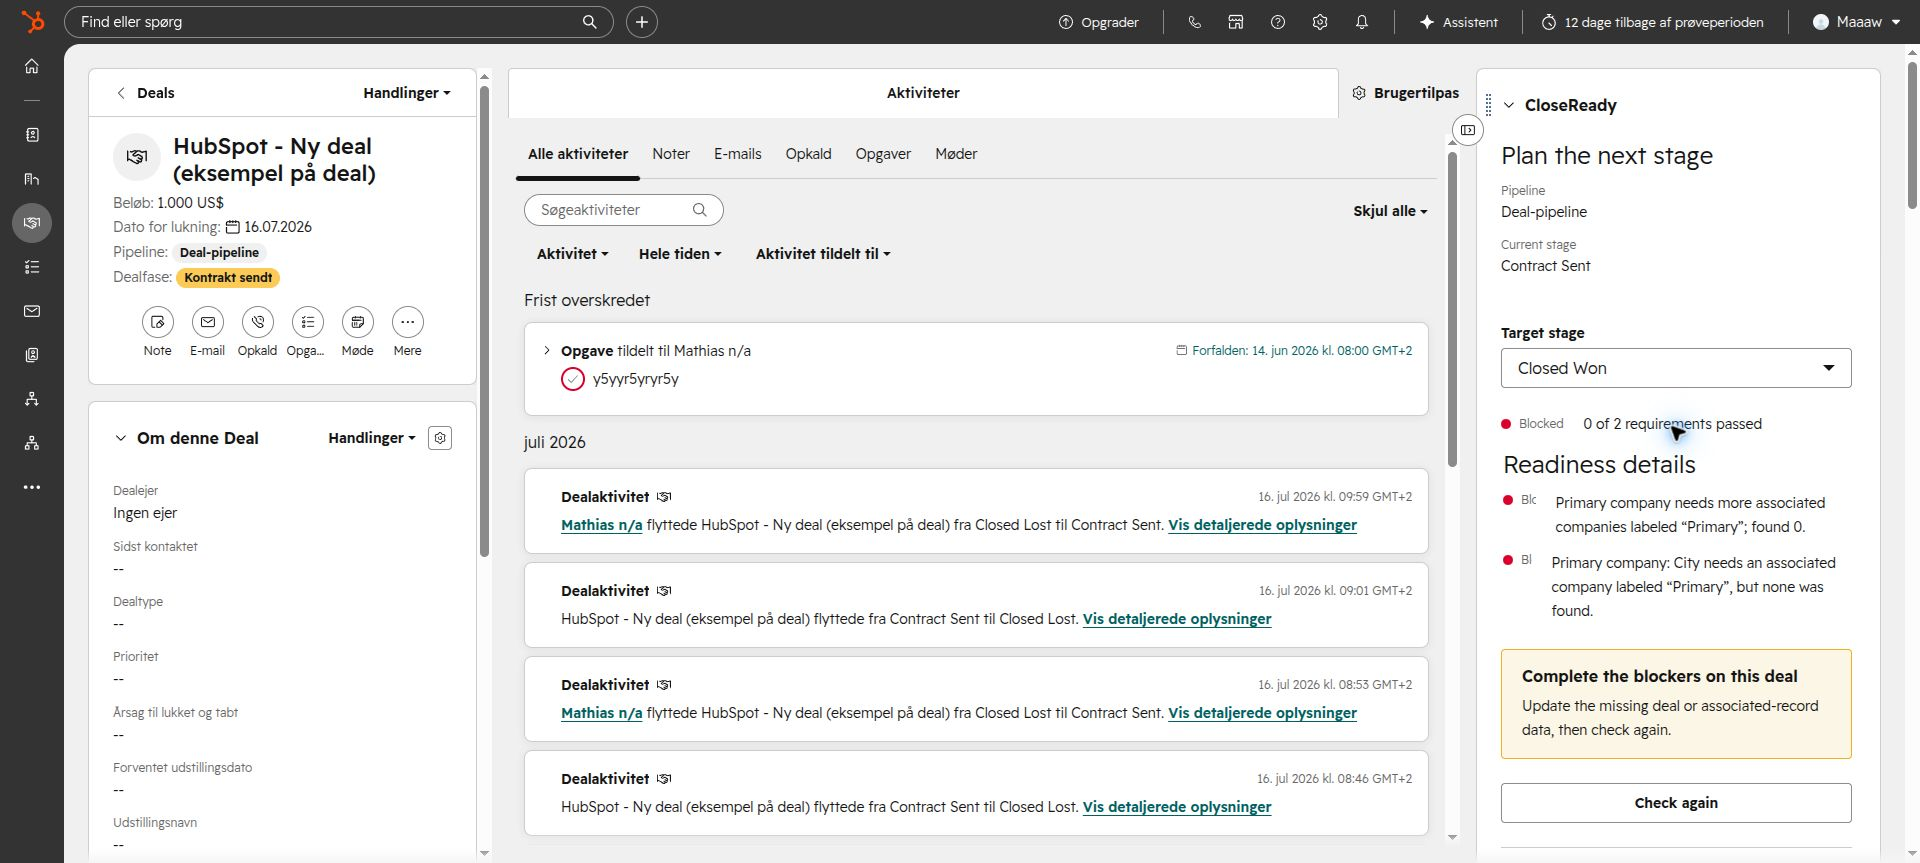
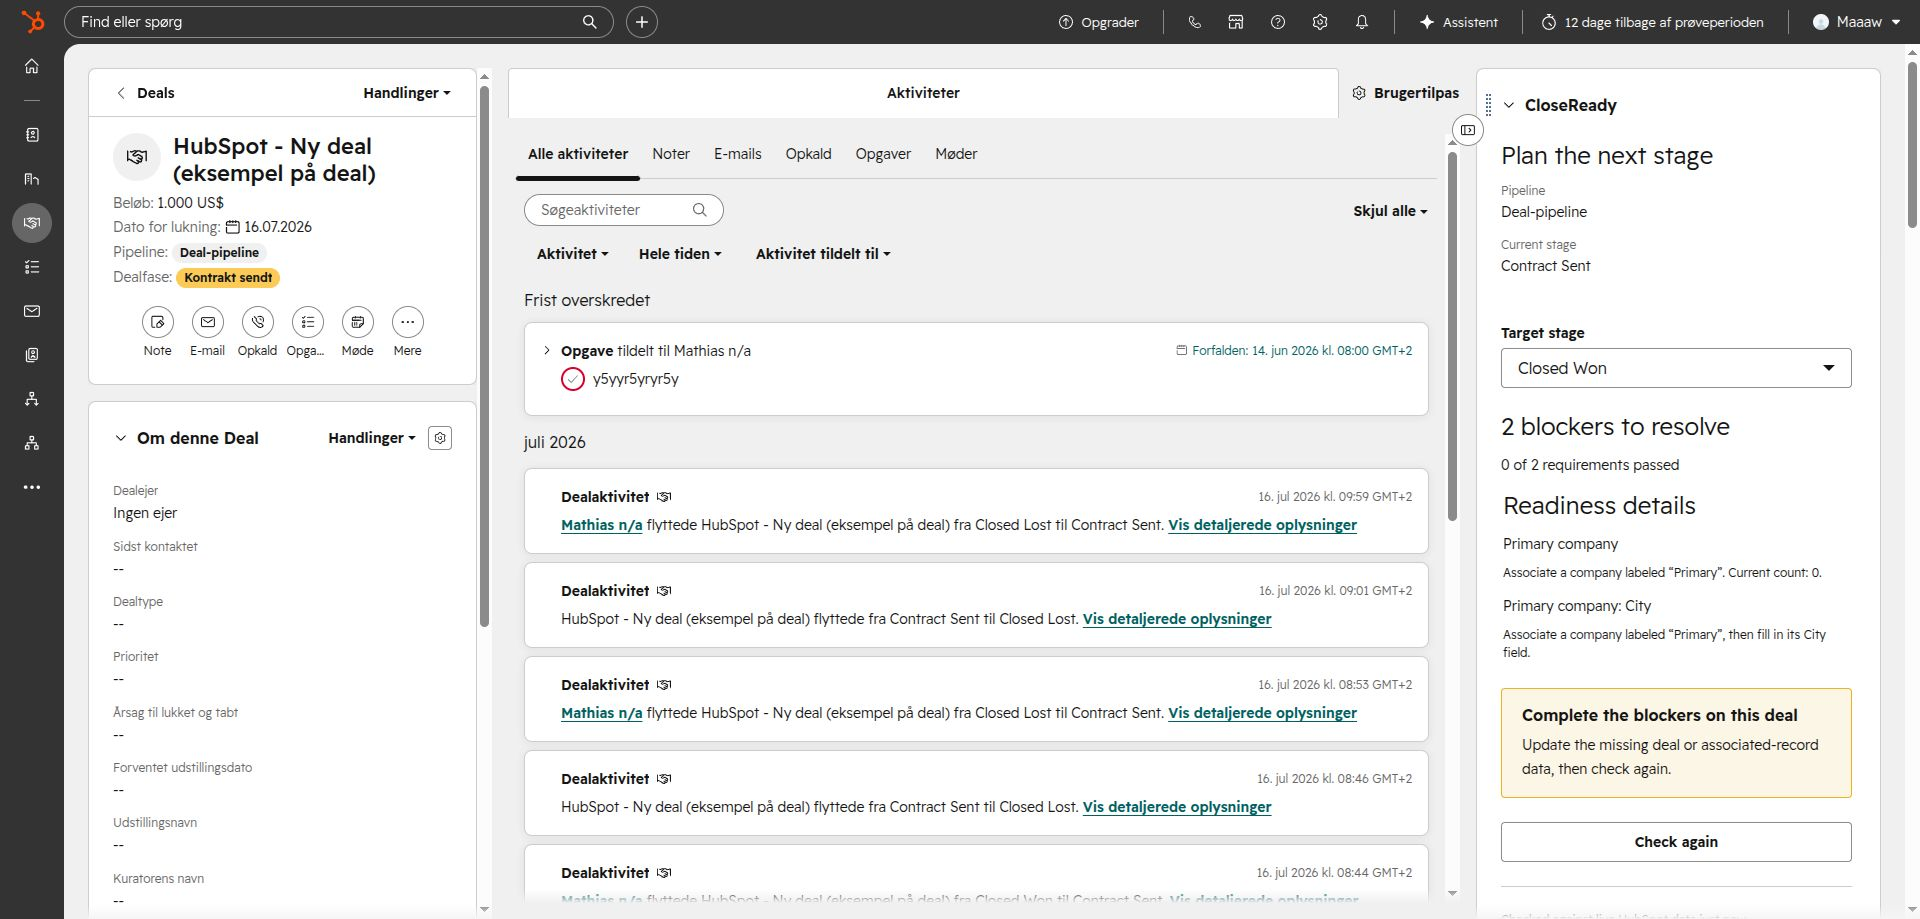
Refresh CloseReady docs and screenshots

diff --git a/projects/closeready/services/api/README.md b/projects/closeready/services/api/README.md
@@ -1,8 +1,9 @@
 # CloseReady API
 
 This package contains the HubSpot gateway and a web-standard `Request` to
-`Response` handler. The same handler can be wrapped by Node, AWS Lambda, Azure
-Functions, or HubSpot serverless adapters.
+`Response` handler. A Node adapter is included. AWS Lambda, Azure Functions, or
+other HTTP runtimes can use thin adapters around the same handler; those
+adapters are not currently shipped in this project.
 
 Implemented capabilities:
 
@@ -19,16 +20,50 @@ OAuth, AES-256-GCM encrypted Upstash token persistence, HubSpot signature v3
 verification, and a local Node adapter are included. The core HTTP handler still
 injects these boundaries so cloud-specific adapters remain small.
 
-For local API work:
+## Local development
 
 ```bash
 pnpm --dir projects/closeready/services/api dev:local
 curl http://localhost:8788/health
 ```
 
-The local command uses in-memory token and rule stores and accepts unsigned requests
-only on `localhost`/`127.0.0.1`. A durable encrypted store is mandatory outside
-development.
+The local command uses in-memory token and rule stores and accepts unsigned
+requests only on `localhost`/`127.0.0.1`. A durable encrypted store is mandatory
+outside development. For a real OAuth flow, copy `.env.example`, configure the
+credentials and public HTTPS origin, run `pnpm --filter
+@hubspotlab/closeready-api dev`, then open `{PUBLIC_URL}/oauth/install`.
+
+## Production configuration
+
+| Variable                   | Purpose                                    |
+| -------------------------- | ------------------------------------------ |
+| `HUBSPOT_CLIENT_ID`        | OAuth app client ID                        |
+| `HUBSPOT_CLIENT_SECRET`    | OAuth and HubSpot request-signature secret |
+| `HUBSPOT_SCOPES`           | Space- or comma-separated scope override   |
+| `PUBLIC_URL`               | Public API origin without a trailing slash |
+| `TOKEN_ENCRYPTION_KEY`     | Encrypts durable OAuth and rule records    |
+| `UPSTASH_REDIS_REST_URL`   | Durable REST Redis endpoint                |
+| `UPSTASH_REDIS_REST_TOKEN` | REST Redis bearer token                    |
+| `RULE_STORAGE`             | `auto`, `hubspot`, or `external`           |
+
+Production startup requires encrypted durable token storage.
+
+## Routes
+
+| Method   | Route                                  | Purpose                                       |
+| -------- | -------------------------------------- | --------------------------------------------- |
+| `GET`    | `/health`                              | Process health                                |
+| `GET`    | `/oauth/install`                       | Begin OAuth installation                      |
+| `GET`    | `/oauth/callback`                      | Exchange and store OAuth tokens               |
+| `POST`   | `/api/provision?portalId=…`            | Select or initialize rule storage             |
+| `GET`    | `/api/catalog?portalId=…`              | Pipelines, properties, and association labels |
+| `GET`    | `/api/rules?portalId=…`                | List rules, optionally by pipeline            |
+| `POST`   | `/api/rules?portalId=…`                | Create a rule                                 |
+| `PATCH`  | `/api/rules/:id?portalId=…`            | Update a rule                                 |
+| `DELETE` | `/api/rules/:id?portalId=…`            | Delete a rule                                 |
+| `GET`    | `/api/deals/:id/context?portalId=…`    | Current pipeline and stage                    |
+| `POST`   | `/api/deals/:id/evaluate?portalId=…`   | Evaluate a target stage                       |
+| `POST`   | `/api/deals/:id/transition?portalId=…` | Re-evaluate and perform a guarded move        |
 
 With `RULE_STORAGE=auto` (the default), CloseReady uses the same idempotent
 provisioning model as TidsHub. A setup check lists the portal's custom schemas,

diff --git a/projects/closeready/docs/architecture.md b/projects/closeready/docs/architecture.md
@@ -2,16 +2,15 @@
 
 ```mermaid
 flowchart LR
-  Card[Deal record card] --> API[Portable signed API]
-  Page[CloseReady app page] --> API
+  Card[Deal record card] -->|HubSpot signature v3| API[Portable OAuth API]
+  Page[App page and settings] -->|HubSpot signature v3| API
   API --> Pipelines[HubSpot pipelines and properties]
   API --> Deals[Deals and associations]
+  API --> Engine[Shared rule engine]
   API --> Choice{Custom objects available?}
   Choice -->|Yes| Rules[(One CloseReady rule object)]
   Choice -->|No| Portable[(Encrypted portable rule store)]
-  Card --> Engine[Shared rule engine]
-  Page --> Engine
-  API --> Engine
+  API --> Tokens[(Encrypted OAuth token store)]
 ```
 
 ## Capability-based persistence
@@ -29,21 +28,22 @@ written to CRM.
 
 ## API contract
 
-| Method   | Route                        | Purpose                                       |
-| -------- | ---------------------------- | --------------------------------------------- |
-| `POST`   | `/api/provision`             | Select and report the portal's storage mode   |
-| `GET`    | `/api/catalog`               | Pipelines, CRM properties, association labels |
-| `GET`    | `/api/rules?pipelineId=…`    | List pipeline rules                           |
-| `POST`   | `/api/rules`                 | Create a validated rule                       |
-| `PATCH`  | `/api/rules/:id`             | Update a validated rule                       |
-| `DELETE` | `/api/rules/:id`             | Archive a rule                                |
-| `POST`   | `/api/deals/:id/evaluate`    | Evaluate against a target stage               |
-| `POST`   | `/api/deals/:id/transition`  | Guard and perform an allowed transition       |
-| `GET`    | `/api/overview?pipelineId=…` | Pipeline readiness dashboard                  |
+| Method   | Route                       | Purpose                                       |
+| -------- | --------------------------- | --------------------------------------------- |
+| `POST`   | `/api/provision`            | Select and report the portal's storage mode   |
+| `GET`    | `/api/catalog`              | Pipelines, CRM properties, association labels |
+| `GET`    | `/api/rules?pipelineId=…`   | List pipeline rules                           |
+| `POST`   | `/api/rules`                | Create a validated rule                       |
+| `PATCH`  | `/api/rules/:id`            | Update a validated rule                       |
+| `DELETE` | `/api/rules/:id`            | Archive a rule                                |
+| `POST`   | `/api/deals/:id/evaluate`   | Evaluate against a target stage               |
+| `POST`   | `/api/deals/:id/transition` | Guard and perform an allowed transition       |
+| `GET`    | `/api/deals/:id/context`    | Read the deal's current pipeline and stage    |
 
-Every `/api/*` request uses HubSpot signature v3. The service rechecks rules
-and current deal facts during a guarded transition; it never trusts readiness
-results supplied by the UI.
+Every production `/api/*` request uses HubSpot signature v3. Explicit localhost
+development may accept unsigned requests. The service rechecks rules and current
+deal facts during a guarded transition; it never trusts readiness results
+supplied by the UI.
 
 ## Snapshot collection
 

diff --git a/projects/closeready/README.md b/projects/closeready/README.md
@@ -6,9 +6,12 @@ stage, then explains exactly what prevents a deal from progressing or closing.
 
 ## Product surfaces
 
-- **Deal card:** readiness score, blockers, warnings, and direct remediation.
-- **App page:** pipeline health, blocked deals, and readiness by owner/stage.
-- **Configuration:** per-pipeline and per-stage required data points.
+- **Deal card:** target-stage selection, live checks, concise blockers and
+  warnings, and a guarded move when requirements pass.
+- **App page:** installation health, active-rule totals, and target-stage
+  coverage for each pipeline.
+- **Configuration:** create, edit, pause, enable, and safely delete transition
+  requirements.
 - **Guarded transition:** validates every CloseReady blocker before moving a
   deal to its target stage.
 
@@ -21,11 +24,11 @@ move into a target stage. See the [product plan](docs/product-plan.md) and
 
 ## Current foundation
 
-CloseReady now contains the deterministic engine, a portable HubSpot API client,
-the web-standard HTTP contract, and the first native HubSpot configuration page.
-The runtime adapters and OAuth token store are intentionally separate from the
-business logic so the same service can run on Node, Lambda, Azure Functions, or
-HubSpot serverless when available.
+CloseReady contains a deterministic rule engine, portable HubSpot API client,
+web-standard HTTP contract, Node runtime adapter, encrypted token and rule
+stores, and native HubSpot UI extensions. The HTTP handler is intentionally
+hosting-neutral; additional cloud adapters can wrap it without changing the
+rule engine.
 
 The HubSpot experience is split into three focused surfaces:
 
@@ -60,6 +63,20 @@ the card.
 
 See the [visual product tour](docs/product-tour.md) for the complete workflow
 and supported rule types.
+
+## Prerequisites
+
+- Node.js 24 or newer and pnpm 11;
+- a HubSpot developer project with the checked-in app components uploaded;
+- an HTTPS API origin reachable by HubSpot;
+- OAuth client credentials and a long random token-encryption key;
+- Upstash REST Redis for durable production token storage and portable rule
+  storage.
+
+Copy `services/api/.env.example`, configure the values, run the API with
+`pnpm --filter @hubspotlab/closeready-api dev`, and open `/oauth/install` on the
+public API origin to connect a portal. Local health-check development is
+available with `pnpm --filter @hubspotlab/closeready-api dev:local`.
 
 ## Storage that fits the portal
 
@@ -107,11 +124,8 @@ view > Add card > Card library > CloseReady**. Save the layout once; every deal
 then gets the guarded transition flow.
 
 ```bash
-pnpm --filter @hubspotlab/closeready-core test
-pnpm --filter @hubspotlab/closeready-core typecheck
-pnpm --filter @hubspotlab/closeready-api test
-pnpm --filter @hubspotlab/closeready-api typecheck
-pnpm --dir projects/closeready/apps/hubspot/src/app/pages typecheck
+pnpm --dir projects/closeready test
+pnpm --dir projects/closeready typecheck
 ```
 
 The placeholder `closeready.example.com` origin in the HubSpot app metadata and

diff --git a/README.md b/README.md
@@ -1,7 +1,8 @@
 # HubSpotLab
 
-HubSpotLab is an MIT-licensed monorepo for reusable HubSpot apps, developer
-tools, shared libraries, automation, agent skills, examples, and documentation.
+HubSpotLab is an MIT-licensed monorepo for production-oriented HubSpot apps,
+developer tools, shared libraries, automation, agent skills, examples, and
+documentation.
 
 The repository is intentionally language-agnostic at the root. Each project
 owns its runtime, dependencies, tests, and release process while following the
@@ -33,23 +34,31 @@ pnpm test
 Use Node.js 24 or newer. Choose the narrowest matching top-level area for new
 work and keep each project independently understandable and deployable.
 
-See [CONTRIBUTING.md](CONTRIBUTING.md) for repository conventions and
-[docs/architecture.md](docs/architecture.md) for the design principles behind
-the monorepo. The [TidsHub project](projects/tidshub/README.md) documents the
-first complete product and its trust boundaries.
-
 ## Current projects
 
-| Project               | Purpose                                                     |
-| --------------------- | ----------------------------------------------------------- |
-| `projects/tidshub`    | Time registration with a HubSpot app and portable OAuth API |
-| `projects/closeready` | Pipeline-specific deal readiness and close governance       |
+| Project    | Purpose                                                        | Start here                                     |
+| ---------- | -------------------------------------------------------------- | ---------------------------------------------- |
+| TidsHub    | Time registration, CRM associations, and weekly approvals      | [Project guide](projects/tidshub/README.md)    |
+| CloseReady | Configurable deal-transition readiness and guarded stage moves | [Project guide](projects/closeready/README.md) |
+
+Validate one product without running unrelated work:
+
+```bash
+pnpm --dir projects/tidshub validate
+pnpm --dir projects/closeready test
+pnpm --dir projects/closeready typecheck
+```
+
+See [CONTRIBUTING.md](CONTRIBUTING.md) for repository conventions,
+[docs/architecture.md](docs/architecture.md) for monorepo design principles,
+and [projects/README.md](projects/README.md) for the product-owned layout.
 
 ## Status
 
-TidsHub is the first production-oriented reference application. It uses native
-HubSpot UI extensions, one custom object, signed API requests, portable OAuth,
-and an encrypted durable token store.
+HubSpotLab is pre-1.0. TidsHub and CloseReady are functional reference products,
+but deployments still require operator-owned HubSpot credentials, a public API
+origin, and production-grade encrypted token persistence. Each project README
+documents its own prerequisites, trust boundary, and validation commands.
 
 See [SECURITY.md](SECURITY.md) for private vulnerability reporting and
 [LICENSE](LICENSE) for reuse terms.

diff --git a/projects/closeready/docs/product-plan.md b/projects/closeready/docs/product-plan.md
@@ -29,13 +29,19 @@ set to another pipeline, then edit the copy independently.
 
 ### Deal record card
 
-- current readiness score and target stage;
-- blockers before warnings;
-- direct links or actions to complete missing data;
-- guarded stage transition after all blockers pass;
-- clear indication when a property is also hard-blocked by HubSpot.
+- current and target stages;
+- concise blockers before warnings;
+- actionable instructions for missing data;
+- guarded stage transition after all blockers pass.
 
-### App page
+### App page: current
+
+- portal, storage, and active-rule setup health;
+- blocker, warning, and governed-stage totals;
+- target-stage coverage by pipeline;
+- requirement-type mix.
+
+### App page: future analytics
 
 - blocked deals by pipeline, stage, owner, and closing period;
 - readiness distribution and recent regressions;
@@ -45,19 +51,24 @@ set to another pipeline, then edit the copy independently.
 ### Settings
 
 - installation health and one-object provisioning;
-- default Closed won starter pack;
-- links to HubSpot pipeline settings for native required fields.
+- per-rule status for requirements an administrator has mirrored in HubSpot;
+- explanatory guidance for CloseReady versus native HubSpot enforcement.
+
+Future settings work includes a native-rule setup checklist and direct pipeline
+settings links.
 
 ## Delivery sequence
 
 1. Deterministic rule engine and validation. Complete.
-2. One-object rule persistence and portable API contract. Core complete; OAuth
-   runtime adapters remain.
-3. Pipeline, stage, property, and association-label discovery. Complete.
-4. Configuration app page. Initial implementation complete.
-5. Deal card and live readiness evaluation. Collector complete; card remains.
-6. Pipeline dashboard and guarded transition.
-7. Native-enforcement setup assistant and documentation.
+2. One-object rule persistence and encrypted portable fallback. Complete.
+3. OAuth, signed requests, token refresh, and Node runtime. Complete.
+4. Pipeline, property, and association-label discovery. Complete.
+5. Rule configuration with edit, pause, enable, duplicate protection, and
+   confirmed deletion. Complete.
+6. Deal card, live readiness evaluation, and guarded transition. Complete.
+7. Pipeline coverage overview and setup health. Complete.
+8. Native-enforcement setup guidance. Documented; deep-link workflow remains.
+9. Deal-level analytics, owner rollups, and regression history. Planned.
 
 ## Deliberate constraints
 

diff --git a/projects/closeready/docs/enforcement.md b/projects/closeready/docs/enforcement.md
@@ -10,8 +10,8 @@ entering Closed won until the required fields are populated.
 
 CloseReady can mark compatible wildcard-source property rules as
 `nativeEnforcement`. Native required fields apply to every move into a target
-stage, so an exact source-stage rule cannot be represented natively. The setup
-assistant links the administrator to:
+stage, so an exact source-stage rule cannot be represented natively. Configure
+the matching rule in HubSpot's pipeline settings for the selected pipeline:
 
 ```text
 /pipelines-settings/{portalId}/object/0-3/{pipelineId}
@@ -28,7 +28,7 @@ CloseReady mutated pipeline settings.
 
 Conditions involving associations, tasks, quotes, line items, or compound logic
 are evaluated by CloseReady. They block CloseReady's guarded transition and are
-shown prominently in the deal card and pipeline dashboard. They cannot prevent
+shown prominently in the deal card. They cannot prevent
 a sufficiently privileged user from changing the native deal stage elsewhere
 in HubSpot.
 

diff --git a/projects/README.md b/projects/README.md
@@ -16,3 +16,10 @@ projects/example/
 
 Code shared by multiple projects belongs in `packages/`. Repository-wide
 conventions and architectural decisions belong in `docs/`.
+
+## Active projects
+
+| Project    | Product surface                                              | Documentation                 |
+| ---------- | ------------------------------------------------------------ | ----------------------------- |
+| CloseReady | Deal-readiness app page, rule settings, and deal card        | [Guide](closeready/README.md) |
+| TidsHub    | Time-registration app page, CRM cards, and approval workflow | [Guide](tidshub/README.md)    |

diff --git a/projects/closeready/docs/product-tour.md b/projects/closeready/docs/product-tour.md
@@ -51,7 +51,9 @@ The result is intentionally actionable:
 
 - passed requirements are confirmed;
 - warnings remain visible but do not prevent the guarded move;
-- blockers explain the missing data;
+- the summary uses a readable count such as **2 blockers to resolve**;
+- each blocker separates the rule name from a short instruction, such as
+  **Associate a company labeled “Primary”, then fill in its City field**;
 - **Check again** refreshes the evaluation after the rep fixes the deal;
 - **Move to [stage]** only appears when every blocker passes;
 - transitions without configured rules remain unavailable through the card.

diff --git a/SECURITY.md b/SECURITY.md
@@ -19,5 +19,6 @@ revision on `main`.
 - Use a dedicated HubSpot developer test account for local and browser tests.
 - Rotate a credential immediately if it appears in a terminal log, screenshot,
   issue, or commit.
-- Production TidsHub deployments must use the encrypted durable token store.
-  The in-memory store and unsigned requests are local-development features.
+- Production OAuth services, including TidsHub and CloseReady, must use their
+  encrypted durable token stores. In-memory stores and unsigned requests are
+  local-development features only.

diff --git a/docs/README.md b/docs/README.md
@@ -6,3 +6,8 @@ describe.
 
 - [Architecture](architecture.md)
 - [Decision records](decisions/README.md)
+
+Product documentation stays with the product:
+
+- [CloseReady](../projects/closeready/README.md)
+- [TidsHub](../projects/tidshub/README.md)
